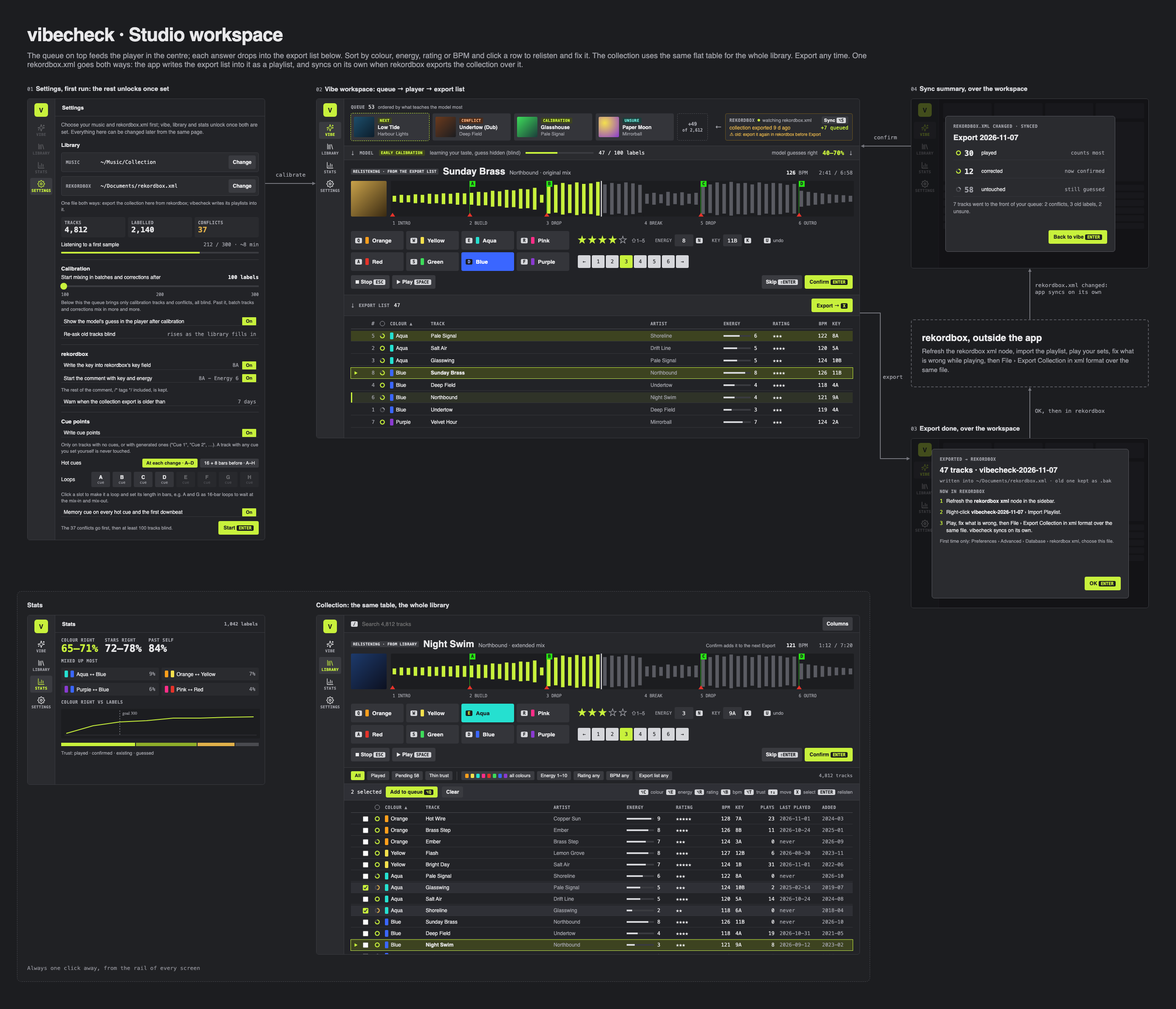
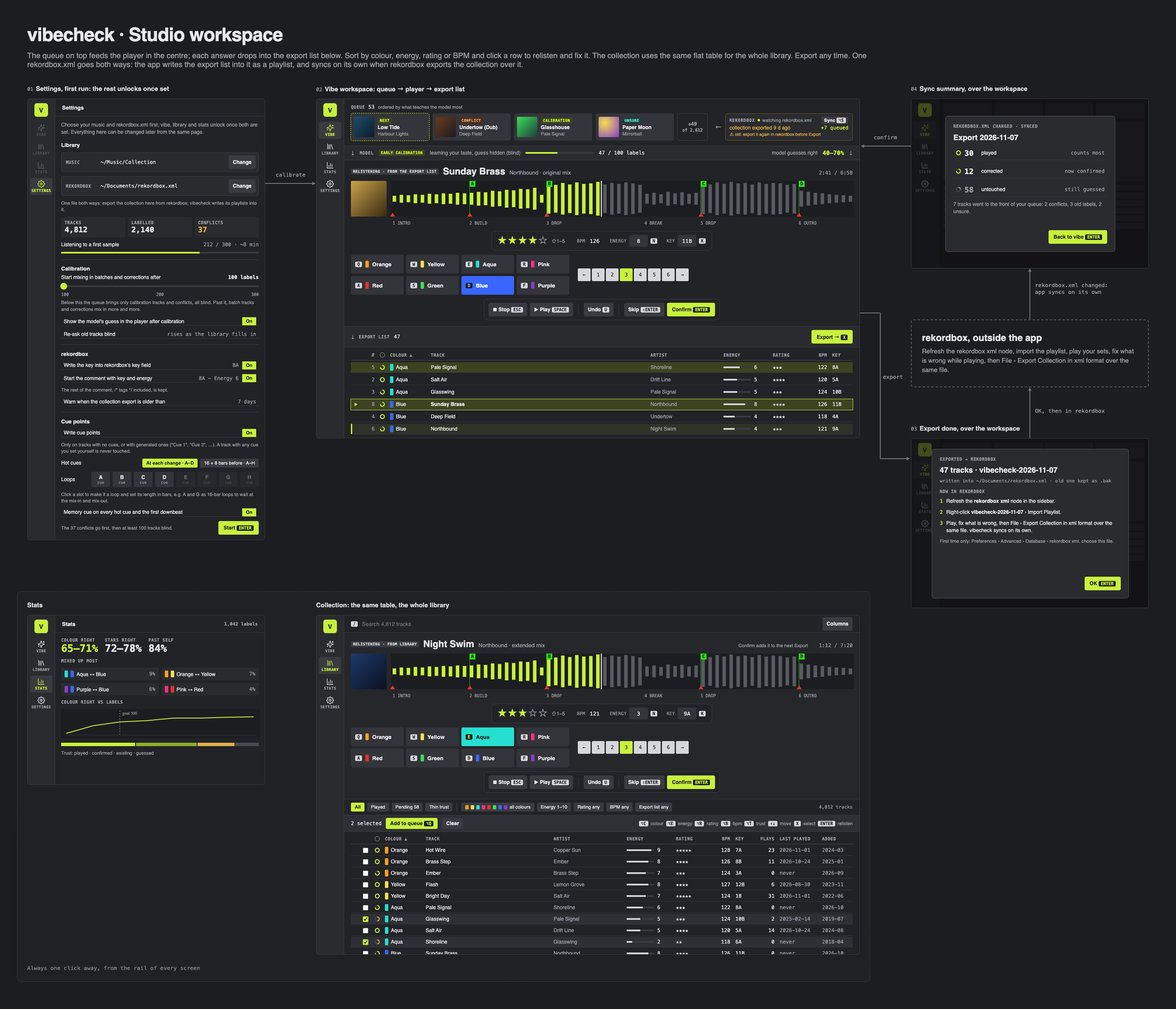
app: player trays, bpm in meta, undo button
- meta tray (stars, bpm, energy, key) under waveform, centred
- main controls tray: stop, play | undo | skip/requeue, confirm
- parts beside colour keys; trays hidden with no track
- artist line trims so player fits window

Changed region(s): [[0.2796, 0.6852, 0.7146, 0.9655], [0.2796, 0.218, 0.7457, 0.436]]

diff --git a/docs/ui/workspace.html b/docs/ui/workspace.html
@@ -175,11 +175,12 @@ a{color:#c8f13c}a:hover{color:#e0ff7a}
 <div style="padding: 8px 16px; border-bottom: 1px solid #3a3b40; display: flex; align-items: center; gap: 12px; background: #2a2b2f"><span style="font-size: 13px; color: #a0a1a8">↓</span><span class="lbl">Model</span><span class="tag t-cal">early calibration</span><span style="font-size: 12px; color: #a0a1a8">learning your taste, guess hidden (blind)</span><div style="width: 160px; height: 4px; background: #3a3b40; display: flex"><div style="width: 47%; background: #c8f13c"></div></div><span class="mono" style="font-size: 12px">47 / 100 labels</span><span style="font-size: 12px; color: #a0a1a8; margin-left: auto">model guesses right</span><b class="mono" style="font-size: 14px; color: #c8f13c">40–70%</b><span style="font-size: 13px; color: #a0a1a8">↓</span></div>
 
 <div style="padding: 14px 16px; display: flex; flex-direction: column; gap: 10px; border-bottom: 1px solid #3a3b40">
-<div style="display: flex; align-items: baseline; gap: 10px"><span class="tag t-re" style="align-self: center">relistening · from the export list</span><span style="font-size: 22px; font-weight: 800">Sunday Brass</span><span style="font-size: 13px; color: #a0a1a8">Northbound · original mix</span><span class="mono" style="font-size: 12px; margin-left: auto"><b>126</b> <span style="color: #a0a1a8">BPM</span></span><span class="mono" style="font-size: 12px; color: #a0a1a8; margin-left: 16px">2:41 / 6:58</span></div>
+<div style="display: flex; align-items: baseline; gap: 10px"><span class="tag t-re" style="align-self: center">relistening · from the export list</span><span style="font-size: 22px; font-weight: 800">Sunday Brass</span><span style="font-size: 13px; color: #a0a1a8">Northbound · original mix</span><span class="mono" style="font-size: 12px; color: #a0a1a8; margin-left: auto">2:41 / 6:58</span></div>
 <div style="display: flex; gap: 10px; align-items: flex-start"><div class="cov" aria-label="Cover" style="width: 84px; height: 84px; background: linear-gradient(135deg, #c9a24a, #3a2a12)"></div><div style="flex: 1; min-width: 0; display: flex; flex-direction: column; gap: 10px">
 <div style="position: relative"><svg width="1090" height="84" viewBox="0 0 528 72" preserveAspectRatio="none" role="img" aria-label="Waveform, playhead in the first drop" style="display: block; background: #1c1d20; border-radius: 3px"><path d="M4 30V42M12 28V44M20 29V43M28 27V45M36 28V44M44 26V46M52 27V45M60 25V47M68 26V46M76 24V48M84 25V47M92 24V48M100 22V50M108 23V49M116 20V52M124 21V51M132 18V54M140 19V53M148 16V56M156 17V55M164 14V58M172 28V44M180 6V66M188 8V64M196 4V68M204 7V65M212 3V69M220 6V66M228 5V67M236 2V70" stroke="#c8f13c" stroke-width="4"/><path d="M244 7V65M252 4V68M260 6V66M268 3V69M276 5V67M284 8V64M292 26V46M300 24V48M308 27V45M316 22V50M324 25V47M332 23V49M340 26V46M348 24V48M356 5V67M364 7V65M372 3V69M380 6V66M388 2V70M396 5V67M404 4V68M412 7V65M420 3V69M428 6V66M436 4V68M444 5V67M452 8V64M460 6V66M468 20V52M476 22V50M484 24V48M492 25V47M500 27V45M508 28V44M516 29V43M524 30V42" stroke="#5a5b62" stroke-width="4"/><path d="M240 0V72" stroke="#ffffff" stroke-width="1"/><path d="M0 0V72M88 0V72M176 0V72M288 0V72M352 0V72M464 0V72" stroke="#1c1d20" stroke-width="1"/></svg><div aria-label="Cue points" style="position: absolute; inset: 0; pointer-events: none"><span style="position: absolute; left: -2px; top: 75px; width: 0; height: 0; border-left: 6px solid transparent; border-right: 6px solid transparent; border-bottom: 9px solid #e5332a"></span><span style="position: absolute; left: 185px; top: 14px; width: 1px; height: 70px; background: rgba(40,226,20,.8)"></span><span style="position: absolute; left: 185px; top: 0; width: 14px; height: 14px; background: #28e214; color: #1c1d20; font: 600 11px 'IBM Plex Mono', monospace; line-height: 14px; text-align: center">A</span><span style="position: absolute; left: 180px; top: 75px; width: 0; height: 0; border-left: 6px solid transparent; border-right: 6px solid transparent; border-bottom: 9px solid #e5332a"></span><span style="position: absolute; left: 366px; top: 14px; width: 1px; height: 70px; background: rgba(40,226,20,.8)"></span><span style="position: absolute; left: 366px; top: 0; width: 14px; height: 14px; background: #28e214; color: #1c1d20; font: 600 11px 'IBM Plex Mono', monospace; line-height: 14px; text-align: center">B</span><span style="position: absolute; left: 361px; top: 75px; width: 0; height: 0; border-left: 6px solid transparent; border-right: 6px solid transparent; border-bottom: 9px solid #e5332a"></span><span style="position: absolute; left: 729px; top: 14px; width: 1px; height: 70px; background: rgba(40,226,20,.8)"></span><span style="position: absolute; left: 729px; top: 0; width: 14px; height: 14px; background: #28e214; color: #1c1d20; font: 600 11px 'IBM Plex Mono', monospace; line-height: 14px; text-align: center">C</span><span style="position: absolute; left: 724px; top: 75px; width: 0; height: 0; border-left: 6px solid transparent; border-right: 6px solid transparent; border-bottom: 9px solid #e5332a"></span><span style="position: absolute; left: 960px; top: 14px; width: 1px; height: 70px; background: rgba(40,226,20,.8)"></span><span style="position: absolute; left: 960px; top: 0; width: 14px; height: 14px; background: #28e214; color: #1c1d20; font: 600 11px 'IBM Plex Mono', monospace; line-height: 14px; text-align: center">D</span><span style="position: absolute; left: 955px; top: 75px; width: 0; height: 0; border-left: 6px solid transparent; border-right: 6px solid transparent; border-bottom: 9px solid #e5332a"></span></div></div>
 <div class="mono" style="position: relative; height: 14px; font-size: 10px; color: #a0a1a8"><span style="position: absolute; left: 4px">1 INTRO</span><span style="position: absolute; left: 185px">2 BUILD</span><span style="position: absolute; left: 366px">3 DROP</span><span style="position: absolute; left: 597px">4 BREAK</span><span style="position: absolute; left: 729px">5 DROP</span><span style="position: absolute; left: 960px">6 OUTRO</span></div>
 </div></div>
+<div style="display: flex; justify-content: center"><div style="display: inline-flex; align-items: center; padding: 8px 14px; background: #222327; border: 1px solid #3a3b40; border-radius: 8px"><div style="display: flex; align-items: center; gap: 4px"><span style="font-size: 20px; line-height: 1; color: #c8f13c">★</span><span style="font-size: 20px; line-height: 1; color: #c8f13c">★</span><span style="font-size: 20px; line-height: 1; color: #c8f13c">★</span><span style="font-size: 20px; line-height: 1; color: #c8f13c">★</span><span style="font-size: 20px; line-height: 1; color: #a0a1a8">☆</span><span style="font-size: 12px; color: #a0a1a8; margin-left: 6px">⇧1–5</span><span style="font: 500 10px 'IBM Plex Mono', monospace; letter-spacing: .06em; color: #a0a1a8; margin-left: 24px">BPM</span><span class="mono" style="font-size: 13px; margin-left: 6px">126</span></div><div style="display: flex; align-items: center; gap: 6px; margin-left: 24px"><span style="font: 500 10px 'IBM Plex Mono', monospace; letter-spacing: .06em; color: #a0a1a8">ENERGY</span><span class="mono" style="display: inline-flex; align-items: center; justify-content: center; min-width: 44px; height: 28px; border-radius: 3px; background: #34353a; font-size: 13px">8</span><span class="kbd">N</span><span style="font: 500 10px 'IBM Plex Mono', monospace; letter-spacing: .06em; color: #a0a1a8; margin-left: 16px">KEY</span><span class="mono" style="display: inline-flex; align-items: center; justify-content: center; min-width: 44px; height: 28px; border-radius: 3px; background: #34353a; font-size: 13px">11B</span><span class="kbd">K</span></div></div></div>
 <div style="display: flex; gap: 20px; align-items: flex-start">
 <div style="display: grid; grid-template-columns: repeat(4, 124px); gap: 6px">
 <div class="key"><span class="kbd">Q</span><span class="dot" style="background: #ff9f1c"></span>Orange</div>
@@ -191,12 +192,9 @@ a{color:#c8f13c}a:hover{color:#e0ff7a}
 <div class="key" style="background: #3a66ff; color: #ffffff"><span class="kbdd" style="color: #8fa8ff">D</span>Blue</div>
 <div class="key"><span class="kbd">F</span><span class="dot" style="background: #8a3ad1"></span>Purple</div>
 </div>
-<div style="flex: 1; display: grid; grid-template-rows: 44px 44px; row-gap: 6px">
-<div style="display: flex; align-items: center"><div style="display: flex; align-items: center; gap: 4px"><span style="font-size: 20px; line-height: 1; color: #c8f13c">★</span><span style="font-size: 20px; line-height: 1; color: #c8f13c">★</span><span style="font-size: 20px; line-height: 1; color: #c8f13c">★</span><span style="font-size: 20px; line-height: 1; color: #c8f13c">★</span><span style="font-size: 20px; line-height: 1; color: #a0a1a8">☆</span><span style="font-size: 12px; color: #a0a1a8; margin-left: 6px">⇧1–5</span></div><div style="display: flex; align-items: center; gap: 6px; margin-left: 24px"><span style="font: 500 10px 'IBM Plex Mono', monospace; letter-spacing: .06em; color: #a0a1a8">ENERGY</span><span class="mono" style="display: inline-flex; align-items: center; justify-content: center; min-width: 44px; height: 28px; border-radius: 3px; background: #34353a; font-size: 13px">8</span><span class="kbd">N</span><span style="font: 500 10px 'IBM Plex Mono', monospace; letter-spacing: .06em; color: #a0a1a8; margin-left: 16px">KEY</span><span class="mono" style="display: inline-flex; align-items: center; justify-content: center; min-width: 44px; height: 28px; border-radius: 3px; background: #34353a; font-size: 13px">11B</span><span class="kbd">K</span><span class="kbd" style="margin-left: 24px">U</span><span style="font-size: 11px; color: #a0a1a8">undo</span></div><span style="margin-left: auto; font-size: 11px; color: #a0a1a8"></span></div>
-<div style="display: flex; align-items: center"><span style="display: inline-flex; gap: 3px; margin: 0"><span style="display: inline-flex; align-items: center; justify-content: center; width: 30px; height: 30px; border-radius: 3px; font: 500 12px 'IBM Plex Mono', monospace; color: #1c1d20; background: #d6d7db">←</span><span style="display: inline-flex; align-items: center; justify-content: center; width: 30px; height: 30px; border-radius: 3px; font: 500 12px 'IBM Plex Mono', monospace; color: #1c1d20; background: #d6d7db">1</span><span style="display: inline-flex; align-items: center; justify-content: center; width: 30px; height: 30px; border-radius: 3px; font: 500 12px 'IBM Plex Mono', monospace; color: #1c1d20; background: #d6d7db">2</span><span style="display: inline-flex; align-items: center; justify-content: center; width: 30px; height: 30px; border-radius: 3px; font: 500 12px 'IBM Plex Mono', monospace; color: #1c1d20; background: #c8f13c">3</span><span style="display: inline-flex; align-items: center; justify-content: center; width: 30px; height: 30px; border-radius: 3px; font: 500 12px 'IBM Plex Mono', monospace; color: #1c1d20; background: #d6d7db">4</span><span style="display: inline-flex; align-items: center; justify-content: center; width: 30px; height: 30px; border-radius: 3px; font: 500 12px 'IBM Plex Mono', monospace; color: #1c1d20; background: #d6d7db">5</span><span style="display: inline-flex; align-items: center; justify-content: center; width: 30px; height: 30px; border-radius: 3px; font: 500 12px 'IBM Plex Mono', monospace; color: #1c1d20; background: #d6d7db">6</span><span style="display: inline-flex; align-items: center; justify-content: center; width: 30px; height: 30px; border-radius: 3px; font: 500 12px 'IBM Plex Mono', monospace; color: #1c1d20; background: #d6d7db">→</span></span></div>
+<div style="flex: 1; display: flex; align-items: center; align-self: center"><span style="display: inline-flex; gap: 3px; margin: 0"><span style="display: inline-flex; align-items: center; justify-content: center; width: 30px; height: 30px; border-radius: 3px; font: 500 12px 'IBM Plex Mono', monospace; color: #1c1d20; background: #d6d7db">←</span><span style="display: inline-flex; align-items: center; justify-content: center; width: 30px; height: 30px; border-radius: 3px; font: 500 12px 'IBM Plex Mono', monospace; color: #1c1d20; background: #d6d7db">1</span><span style="display: inline-flex; align-items: center; justify-content: center; width: 30px; height: 30px; border-radius: 3px; font: 500 12px 'IBM Plex Mono', monospace; color: #1c1d20; background: #d6d7db">2</span><span style="display: inline-flex; align-items: center; justify-content: center; width: 30px; height: 30px; border-radius: 3px; font: 500 12px 'IBM Plex Mono', monospace; color: #1c1d20; background: #c8f13c">3</span><span style="display: inline-flex; align-items: center; justify-content: center; width: 30px; height: 30px; border-radius: 3px; font: 500 12px 'IBM Plex Mono', monospace; color: #1c1d20; background: #d6d7db">4</span><span style="display: inline-flex; align-items: center; justify-content: center; width: 30px; height: 30px; border-radius: 3px; font: 500 12px 'IBM Plex Mono', monospace; color: #1c1d20; background: #d6d7db">5</span><span style="display: inline-flex; align-items: center; justify-content: center; width: 30px; height: 30px; border-radius: 3px; font: 500 12px 'IBM Plex Mono', monospace; color: #1c1d20; background: #d6d7db">6</span><span style="display: inline-flex; align-items: center; justify-content: center; width: 30px; height: 30px; border-radius: 3px; font: 500 12px 'IBM Plex Mono', monospace; color: #1c1d20; background: #d6d7db">→</span></span></div>
 </div>
-</div>
-<div style="display: flex; align-items: center; gap: 6px"><button class="btn"><svg width="10" height="10" viewBox="0 0 10 10" style="vertical-align: -1px"><rect x="1" y="1" width="8" height="8" fill="#e8e8ea"/></svg> Stop <span class="kbd">ESC</span></button><button class="btn"><svg width="10" height="10" viewBox="0 0 10 10" style="vertical-align: -1px"><path d="M1 0 10 5 1 10z" fill="#e8e8ea"/></svg> Play <span class="kbd">SPACE</span></button><span style="margin-left: auto"></span><button class="btn" title="from the queue this slot reads: Requeue">Skip <span class="kbd">⇧ENTER</span></button><button class="btnp">Confirm <span class="kbdd">ENTER</span></button></div>
+<div style="display: flex; justify-content: center"><div style="display: inline-flex; align-items: center; gap: 6px; padding: 8px 10px; background: #222327; border: 1px solid #3a3b40; border-radius: 8px"><button class="btn"><svg width="10" height="10" viewBox="0 0 10 10" style="vertical-align: -1px"><rect x="1" y="1" width="8" height="8" fill="#e8e8ea"/></svg> Stop <span class="kbd">ESC</span></button><button class="btn"><svg width="10" height="10" viewBox="0 0 10 10" style="vertical-align: -1px"><path d="M1 0 10 5 1 10z" fill="#e8e8ea"/></svg> Play <span class="kbd">SPACE</span></button><span style="width: 1px; height: 24px; background: #3a3b40; margin: 0 6px"></span><button class="btn">Undo <span class="kbd">U</span></button><span style="width: 1px; height: 24px; background: #3a3b40; margin: 0 6px"></span><button class="btn" title="from the queue this slot reads: Requeue">Skip <span class="kbd">⇧ENTER</span></button><button class="btnp">Confirm <span class="kbdd">ENTER</span></button></div></div>
 </div>
 
 <div style="padding: 8px 16px; border-bottom: 1px solid #3a3b40; display: flex; align-items: center; gap: 10px; background: #2a2b2f"><span style="font-size: 13px; color: #a0a1a8">↓</span><span class="lbl">Export list</span><span class="mono" style="font-size: 12px">47</span><button class="btnp" style="margin-left: auto">Export → <span class="kbdd">X</span></button></div>
@@ -289,11 +287,12 @@ a{color:#c8f13c}a:hover{color:#e0ff7a}
 <div class="main">
 <div class="head"><label style="flex: 1; display: flex; align-items: center; gap: 8px"><span class="kbd">/</span><input aria-label="Search tracks" placeholder="Search 4,812 tracks" style="flex: 1; background: none; border: 0; color: #e8e8ea; font: 13px 'Inter', sans-serif"></label><button class="btn">Columns</button></div>
 <div id="player" style="flex: none; background: #26272b; padding: 14px 16px; display: flex; flex-direction: column; gap: 10px; border-bottom: 1px solid #3a3b40">
-<div style="display: flex; align-items: baseline; gap: 10px"><span class="tag t-re" style="align-self: center">relistening · from library</span><span style="font-size: 22px; font-weight: 800">Night Swim</span><span style="font-size: 13px; color: #a0a1a8">Northbound · extended mix</span><span style="margin-left: auto; font-size: 11px; color: #a0a1a8">Confirm adds it to the next Export</span><span class="mono" style="font-size: 12px; margin-left: 16px"><b>121</b> <span style="color: #a0a1a8">BPM</span></span><span class="mono" style="font-size: 12px; color: #a0a1a8; margin-left: 16px">1:12 / 7:20</span></div>
+<div style="display: flex; align-items: baseline; gap: 10px"><span class="tag t-re" style="align-self: center">relistening · from library</span><span style="font-size: 22px; font-weight: 800">Night Swim</span><span style="font-size: 13px; color: #a0a1a8">Northbound · extended mix</span><span style="margin-left: auto; font-size: 11px; color: #a0a1a8">Confirm adds it to the next Export</span><span class="mono" style="font-size: 12px; color: #a0a1a8; margin-left: 16px">1:12 / 7:20</span></div>
 <div style="display: flex; gap: 10px; align-items: flex-start"><div class="cov" aria-label="Cover" style="width: 84px; height: 84px; background: linear-gradient(135deg, #1d3a6b, #0c1020)"></div><div style="flex: 1; min-width: 0; display: flex; flex-direction: column; gap: 10px">
 <div style="position: relative"><svg width="1090" height="84" viewBox="0 0 528 72" preserveAspectRatio="none" role="img" aria-label="Waveform of Night Swim" style="display: block; background: #1c1d20; border-radius: 3px"><path d="M4 30V42M12 28V44M20 29V43M28 27V45M36 28V44M44 26V46M52 27V45M60 25V47M68 26V46M76 24V48M84 25V47M92 24V48M100 22V50M108 23V49M116 20V52M124 21V51M132 18V54M140 19V53M148 16V56M156 17V55M164 14V58M172 28V44M180 6V66M188 8V64M196 4V68M204 7V65M212 3V69M220 6V66M228 5V67M236 2V70" stroke="#c8f13c" stroke-width="4"/><path d="M244 7V65M252 4V68M260 6V66M268 3V69M276 5V67M284 8V64M292 26V46M300 24V48M308 27V45M316 22V50M324 25V47M332 23V49M340 26V46M348 24V48M356 5V67M364 7V65M372 3V69M380 6V66M388 2V70M396 5V67M404 4V68M412 7V65M420 3V69M428 6V66M436 4V68M444 5V67M452 8V64M460 6V66M468 20V52M476 22V50M484 24V48M492 25V47M500 27V45M508 28V44M516 29V43M524 30V42" stroke="#5a5b62" stroke-width="4"/><path d="M240 0V72" stroke="#ffffff" stroke-width="1"/><path d="M0 0V72M88 0V72M176 0V72M288 0V72M352 0V72M464 0V72" stroke="#1c1d20" stroke-width="1"/></svg><div aria-label="Cue points" style="position: absolute; inset: 0; pointer-events: none"><span style="position: absolute; left: -2px; top: 75px; width: 0; height: 0; border-left: 6px solid transparent; border-right: 6px solid transparent; border-bottom: 9px solid #e5332a"></span><span style="position: absolute; left: 185px; top: 14px; width: 1px; height: 70px; background: rgba(40,226,20,.8)"></span><span style="position: absolute; left: 185px; top: 0; width: 14px; height: 14px; background: #28e214; color: #1c1d20; font: 600 11px 'IBM Plex Mono', monospace; line-height: 14px; text-align: center">A</span><span style="position: absolute; left: 180px; top: 75px; width: 0; height: 0; border-left: 6px solid transparent; border-right: 6px solid transparent; border-bottom: 9px solid #e5332a"></span><span style="position: absolute; left: 366px; top: 14px; width: 1px; height: 70px; background: rgba(40,226,20,.8)"></span><span style="position: absolute; left: 366px; top: 0; width: 14px; height: 14px; background: #28e214; color: #1c1d20; font: 600 11px 'IBM Plex Mono', monospace; line-height: 14px; text-align: center">B</span><span style="position: absolute; left: 361px; top: 75px; width: 0; height: 0; border-left: 6px solid transparent; border-right: 6px solid transparent; border-bottom: 9px solid #e5332a"></span><span style="position: absolute; left: 729px; top: 14px; width: 1px; height: 70px; background: rgba(40,226,20,.8)"></span><span style="position: absolute; left: 729px; top: 0; width: 14px; height: 14px; background: #28e214; color: #1c1d20; font: 600 11px 'IBM Plex Mono', monospace; line-height: 14px; text-align: center">C</span><span style="position: absolute; left: 724px; top: 75px; width: 0; height: 0; border-left: 6px solid transparent; border-right: 6px solid transparent; border-bottom: 9px solid #e5332a"></span><span style="position: absolute; left: 960px; top: 14px; width: 1px; height: 70px; background: rgba(40,226,20,.8)"></span><span style="position: absolute; left: 960px; top: 0; width: 14px; height: 14px; background: #28e214; color: #1c1d20; font: 600 11px 'IBM Plex Mono', monospace; line-height: 14px; text-align: center">D</span><span style="position: absolute; left: 955px; top: 75px; width: 0; height: 0; border-left: 6px solid transparent; border-right: 6px solid transparent; border-bottom: 9px solid #e5332a"></span></div></div>
 <div class="mono" style="position: relative; height: 14px; font-size: 10px; color: #a0a1a8"><span style="position: absolute; left: 4px">1 INTRO</span><span style="position: absolute; left: 185px">2 BUILD</span><span style="position: absolute; left: 366px">3 DROP</span><span style="position: absolute; left: 597px">4 BREAK</span><span style="position: absolute; left: 729px">5 DROP</span><span style="position: absolute; left: 960px">6 OUTRO</span></div>
 </div></div>
+<div style="display: flex; justify-content: center"><div style="display: inline-flex; align-items: center; padding: 8px 14px; background: #222327; border: 1px solid #3a3b40; border-radius: 8px"><div style="display: flex; align-items: center; gap: 4px"><span style="font-size: 20px; line-height: 1; color: #c8f13c">★</span><span style="font-size: 20px; line-height: 1; color: #c8f13c">★</span><span style="font-size: 20px; line-height: 1; color: #c8f13c">★</span><span style="font-size: 20px; line-height: 1; color: #a0a1a8">☆</span><span style="font-size: 20px; line-height: 1; color: #a0a1a8">☆</span><span style="font-size: 12px; color: #a0a1a8; margin-left: 6px">⇧1–5</span><span style="font: 500 10px 'IBM Plex Mono', monospace; letter-spacing: .06em; color: #a0a1a8; margin-left: 24px">BPM</span><span class="mono" style="font-size: 13px; margin-left: 6px">121</span></div><div style="display: flex; align-items: center; gap: 6px; margin-left: 24px"><span style="font: 500 10px 'IBM Plex Mono', monospace; letter-spacing: .06em; color: #a0a1a8">ENERGY</span><span class="mono" style="display: inline-flex; align-items: center; justify-content: center; min-width: 44px; height: 28px; border-radius: 3px; background: #34353a; font-size: 13px">3</span><span class="kbd">N</span><span style="font: 500 10px 'IBM Plex Mono', monospace; letter-spacing: .06em; color: #a0a1a8; margin-left: 16px">KEY</span><span class="mono" style="display: inline-flex; align-items: center; justify-content: center; min-width: 44px; height: 28px; border-radius: 3px; background: #34353a; font-size: 13px">9A</span><span class="kbd">K</span></div></div></div>
 <div style="display: flex; gap: 20px; align-items: flex-start">
 <div style="display: grid; grid-template-columns: repeat(4, 124px); gap: 6px">
 <div class="key"><span class="kbd">Q</span><span class="dot" style="background: #ff9f1c"></span>Orange</div>
@@ -305,12 +304,9 @@ a{color:#c8f13c}a:hover{color:#e0ff7a}
 <div class="key"><span class="kbd">D</span><span class="dot" style="background: #3a66ff"></span>Blue</div>
 <div class="key"><span class="kbd">F</span><span class="dot" style="background: #8a3ad1"></span>Purple</div>
 </div>
-<div style="flex: 1; display: grid; grid-template-rows: 44px 44px; row-gap: 6px">
-<div style="display: flex; align-items: center"><div style="display: flex; align-items: center; gap: 4px"><span style="font-size: 20px; line-height: 1; color: #c8f13c">★</span><span style="font-size: 20px; line-height: 1; color: #c8f13c">★</span><span style="font-size: 20px; line-height: 1; color: #c8f13c">★</span><span style="font-size: 20px; line-height: 1; color: #a0a1a8">☆</span><span style="font-size: 20px; line-height: 1; color: #a0a1a8">☆</span><span style="font-size: 12px; color: #a0a1a8; margin-left: 6px">⇧1–5</span></div><div style="display: flex; align-items: center; gap: 6px; margin-left: 24px"><span style="font: 500 10px 'IBM Plex Mono', monospace; letter-spacing: .06em; color: #a0a1a8">ENERGY</span><span class="mono" style="display: inline-flex; align-items: center; justify-content: center; min-width: 44px; height: 28px; border-radius: 3px; background: #34353a; font-size: 13px">3</span><span class="kbd">N</span><span style="font: 500 10px 'IBM Plex Mono', monospace; letter-spacing: .06em; color: #a0a1a8; margin-left: 16px">KEY</span><span class="mono" style="display: inline-flex; align-items: center; justify-content: center; min-width: 44px; height: 28px; border-radius: 3px; background: #34353a; font-size: 13px">9A</span><span class="kbd">K</span><span class="kbd" style="margin-left: 24px">U</span><span style="font-size: 11px; color: #a0a1a8">undo</span></div></div>
-<div style="display: flex; align-items: center"><span style="display: inline-flex; gap: 3px; margin: 0"><span style="display: inline-flex; align-items: center; justify-content: center; width: 30px; height: 30px; border-radius: 3px; font: 500 12px 'IBM Plex Mono', monospace; color: #1c1d20; background: #d6d7db">←</span><span style="display: inline-flex; align-items: center; justify-content: center; width: 30px; height: 30px; border-radius: 3px; font: 500 12px 'IBM Plex Mono', monospace; color: #1c1d20; background: #d6d7db">1</span><span style="display: inline-flex; align-items: center; justify-content: center; width: 30px; height: 30px; border-radius: 3px; font: 500 12px 'IBM Plex Mono', monospace; color: #1c1d20; background: #d6d7db">2</span><span style="display: inline-flex; align-items: center; justify-content: center; width: 30px; height: 30px; border-radius: 3px; font: 500 12px 'IBM Plex Mono', monospace; color: #1c1d20; background: #c8f13c">3</span><span style="display: inline-flex; align-items: center; justify-content: center; width: 30px; height: 30px; border-radius: 3px; font: 500 12px 'IBM Plex Mono', monospace; color: #1c1d20; background: #d6d7db">4</span><span style="display: inline-flex; align-items: center; justify-content: center; width: 30px; height: 30px; border-radius: 3px; font: 500 12px 'IBM Plex Mono', monospace; color: #1c1d20; background: #d6d7db">5</span><span style="display: inline-flex; align-items: center; justify-content: center; width: 30px; height: 30px; border-radius: 3px; font: 500 12px 'IBM Plex Mono', monospace; color: #1c1d20; background: #d6d7db">6</span><span style="display: inline-flex; align-items: center; justify-content: center; width: 30px; height: 30px; border-radius: 3px; font: 500 12px 'IBM Plex Mono', monospace; color: #1c1d20; background: #d6d7db">→</span></span></div>
+<div style="flex: 1; display: flex; align-items: center; align-self: center"><span style="display: inline-flex; gap: 3px; margin: 0"><span style="display: inline-flex; align-items: center; justify-content: center; width: 30px; height: 30px; border-radius: 3px; font: 500 12px 'IBM Plex Mono', monospace; color: #1c1d20; background: #d6d7db">←</span><span style="display: inline-flex; align-items: center; justify-content: center; width: 30px; height: 30px; border-radius: 3px; font: 500 12px 'IBM Plex Mono', monospace; color: #1c1d20; background: #d6d7db">1</span><span style="display: inline-flex; align-items: center; justify-content: center; width: 30px; height: 30px; border-radius: 3px; font: 500 12px 'IBM Plex Mono', monospace; color: #1c1d20; background: #d6d7db">2</span><span style="display: inline-flex; align-items: center; justify-content: center; width: 30px; height: 30px; border-radius: 3px; font: 500 12px 'IBM Plex Mono', monospace; color: #1c1d20; background: #c8f13c">3</span><span style="display: inline-flex; align-items: center; justify-content: center; width: 30px; height: 30px; border-radius: 3px; font: 500 12px 'IBM Plex Mono', monospace; color: #1c1d20; background: #d6d7db">4</span><span style="display: inline-flex; align-items: center; justify-content: center; width: 30px; height: 30px; border-radius: 3px; font: 500 12px 'IBM Plex Mono', monospace; color: #1c1d20; background: #d6d7db">5</span><span style="display: inline-flex; align-items: center; justify-content: center; width: 30px; height: 30px; border-radius: 3px; font: 500 12px 'IBM Plex Mono', monospace; color: #1c1d20; background: #d6d7db">6</span><span style="display: inline-flex; align-items: center; justify-content: center; width: 30px; height: 30px; border-radius: 3px; font: 500 12px 'IBM Plex Mono', monospace; color: #1c1d20; background: #d6d7db">→</span></span></div>
 </div>
-</div>
-<div style="display: flex; align-items: center; gap: 6px"><button class="btn"><svg width="10" height="10" viewBox="0 0 10 10" style="vertical-align: -1px"><rect x="1" y="1" width="8" height="8" fill="#e8e8ea"/></svg> Stop <span class="kbd">ESC</span></button><button class="btn"><svg width="10" height="10" viewBox="0 0 10 10" style="vertical-align: -1px"><path d="M1 0 10 5 1 10z" fill="#e8e8ea"/></svg> Play <span class="kbd">SPACE</span></button><span style="margin-left: auto"></span><button class="btn">Skip <span class="kbd">⇧ENTER</span></button><button class="btnp">Confirm <span class="kbdd">ENTER</span></button></div>
+<div style="display: flex; justify-content: center"><div style="display: inline-flex; align-items: center; gap: 6px; padding: 8px 10px; background: #222327; border: 1px solid #3a3b40; border-radius: 8px"><button class="btn"><svg width="10" height="10" viewBox="0 0 10 10" style="vertical-align: -1px"><rect x="1" y="1" width="8" height="8" fill="#e8e8ea"/></svg> Stop <span class="kbd">ESC</span></button><button class="btn"><svg width="10" height="10" viewBox="0 0 10 10" style="vertical-align: -1px"><path d="M1 0 10 5 1 10z" fill="#e8e8ea"/></svg> Play <span class="kbd">SPACE</span></button><span style="width: 1px; height: 24px; background: #3a3b40; margin: 0 6px"></span><button class="btn">Undo <span class="kbd">U</span></button><span style="width: 1px; height: 24px; background: #3a3b40; margin: 0 6px"></span><button class="btn">Skip <span class="kbd">⇧ENTER</span></button><button class="btnp">Confirm <span class="kbdd">ENTER</span></button></div></div>
 </div>
 <div style="display: flex; flex-wrap: wrap; align-items: center; gap: 6px; padding: 8px 16px; border-bottom: 1px solid #3a3b40">
 <span class="chip chon">All</span><span class="chip">Played</span><span class="chip">Pending 58</span><span class="chip">Thin trust</span>

diff --git a/docs/ui/decisions.md b/docs/ui/decisions.md
@@ -112,7 +112,6 @@ waveform and charts darker still (`#1c1d20`); dialogs and popups unchanged.
    - "model guesses right 40–70%", always shown as a range, so the user sees
      everything from the start.
 4. **Player** (dark). Call it "player", never "card". It holds:
-   - the **BPM** next to the time at the top right, from rekordbox's grid;
    - the track's **cover in front of the waveform**, as tall as the peaks (a
      gradient in the track's colours when the file has none);
    - the full-track waveform with section labels, click and jump, and the
@@ -124,23 +123,30 @@ waveform and charts darker still (`#1c1d20`); dialogs and popups unchanged.
      export";
    - the colour keys in **two rows** (QWER light / ASDF dark), which the user
      likes;
-   - two rows exactly the height of the colour keys, so everything lines up
-     with them:
-     - **upper row, what you say about the track**, level with the light keys:
-       stars (five ★/☆, filled up to the rating; click or ⇧1–5), **Energy** and **Key**, each a value that pops
-       out a picker (the user preferred this to − and + buttons): energy 1–10
-       in a row (N; ←→ step, a digit picks, 0 is 10), key all 24, minor on
-       top and major below, round the wheel (K; ←→ round the wheel, ↑↓
-       minor/major); and U undo. A key badge next to a control does the same
-       as the control when clicked: the user clicked N and K expecting that. A corrected value
-       turns lime. The player shows what an export would write: your
-       correction, else the analysis;
-     - **lower row, the parts of the track**, level with the dark keys: ←
-       then a button per part numbered as on the waveform, the part playing
-       lit, →;
-   - below the colour keys, the main controls on their own level: Stop (ESC)
-     and Play/Pause (SPACE) on the left, Skip or Requeue and Confirm on the right. They
-     moved out of the dark-key row because it no longer fit the window.
+   - beside the colour keys, centred on them, **the parts of the track**: ←
+     then a button per part numbered as on the waveform, the part playing
+     lit, →;
+   - two centred trays (dark, thin border, rounded), each on its own level,
+     so the groups read at a glance (the user asked for both; before, what
+     you say sat level with the light keys and the controls on the two
+     sides):
+     - under the waveform, above the colour keys, **what you say about the
+       track**: stars (five ★/☆, filled up to the
+       rating; click or ⇧1–5), the **BPM** from rekordbox's grid (read only,
+       so no box; moved here from beside the time), **Energy** and **Key**,
+       each a value that pops out a picker (the user preferred this to − and
+       + buttons): energy 1–10 in a row (N; ←→ step, a digit picks, 0 is 10),
+       key all 24, minor on top and major below, round the wheel (K; ←→ round
+       the wheel, ↑↓ minor/major). A key badge next to a control does the
+       same as the control when clicked: the user clicked N and K expecting
+       that. A corrected value turns lime. The player shows what an export
+       would write: your correction, else the analysis;
+     - under the colour keys, **the main controls**: Stop (ESC) and Play/Pause (SPACE) | **Undo** (U),
+       a button of its own | Skip or Requeue and Confirm. Play/Pause and
+       Skip/Requeue keep a fixed width so the tray doesn't shift.
+     - With no track open the trays are hidden.
+   - The artist line in the header takes the room left and trims with …, so a
+     long one never pushes the player past the window.
    - In the library the hint "Confirm adds it to the next Export" sits on the
      title line, before the time, because the upper row is full.
 5. **Export list strip** (light). It shows "↓ Export list 47" and an **"Export → X"**
